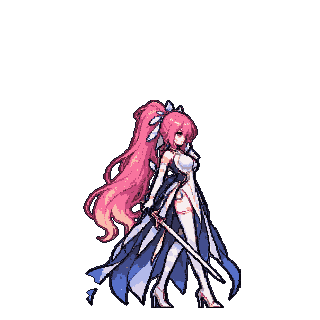
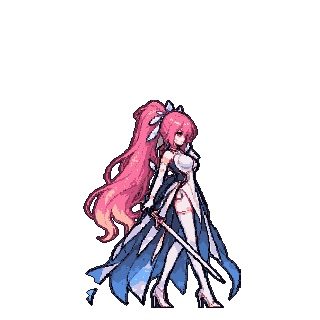
art: 에이메스 도트 자락을 원작대로 남색→하늘색 그라데이션(POLISH.aem)

diff --git a/docs/lore/CHARACTER_BIBLE.md b/docs/lore/CHARACTER_BIBLE.md
@@ -23,7 +23,7 @@
 | 방랑자(여) | 목까지 오는 검은 단발, 귀 옆 은회색 가닥, 금속 머리핀. 뒤의 긴 검은 선은 장식끈 | 도트는 긴 포니테일 | 공식 원화(`rover-f-official.png`) |
 | 카멜리아 | 흰 머리에 검은 줄무늬, 트윈테일, 짙은 회색 눈에 붉은 마름모 동공, 머리에 검붉은 꽃 | 일치(2026-11-12 재생성) | 팬 위키 요약(공식 아님). 의상 세부 미확인 |
 | 치사 | 긴 검은 생머리, 한쪽 빨간 리본, 검은 짧은 재킷, 세일러 상의와 빨간 스카프, 가위형 대검 | 도트는 머리가 갈색이고 리본이 안 보임 | 공식 원화(`chi-official.webp`) |
-| 에이메스 | 무릎까지 오는 장밋빛 분홍 하이포니테일(끝은 복숭아빛), 금빛 눈, 금 테두리 흰 민소매 레오타드, 허리 금속 장치, 남색→하늘색 별빛 그라데이션 자락, 팔꿈치부터 흰 장갑, 금 밴드 흰 사이하이, 흰 힐 | 일치(2026-11-12 재생성) | 공식 원화(`aem-official.webp`) |
+| 에이메스 | 무릎까지 오는 장밋빛 분홍 하이포니테일(끝은 복숭아빛), 금빛 눈, 금 테두리 흰 민소매 레오타드, 허리 금속 장치, 남색→하늘색 별빛 그라데이션 자락, 팔꿈치부터 흰 장갑, 금 밴드 흰 사이하이, 흰 힐 | 자락이 전부 진한 남색이던 것을 하늘색 그라데이션으로 보정(2026-11-24, 처리 단계 `POLISH.aem`). 금 테두리는 도트에 거의 안 보임 | 공식 원화(`aem-official.webp`) |
 | 에이메스 메카 | 은빛 흰 장갑, 둥근 투구와 청록 바이저, 뒤로 뻗은 금색 볏, 연금색 케이블, 검은 관절과 금 장식, 가슴 청록 코어, 떠 있는 흰 칼날 날개 | 일치(2026-11-12 재생성) | 공식 원화(`aem-official.webp` 왼쪽 위) |
 | 파수인 | 어깨 길이 하늘색 머리(끝 진한 파랑), 분홍보라 눈, 흰 반투명 후드와 남색·노랑 나비 장식, 남색 별빛 베일, 프릴 깃 흰 짧은 드레스, 은 끈·팔찌, 맨다리 | 일치(2026-11-12 재생성) | 공식 원화(`sk-official.png`) |
 | 히유키 | 흰 하이포니테일과 빨간 리본, 홍백 무녀복과 벚꽃 문양, 검 | 일치 | 3차 가이드 요약(공식 아님) |

diff --git a/docs/STATUS.md b/docs/STATUS.md
@@ -56,3 +56,4 @@ PixelLab 프롬프트를 웹 화면 스크린샷에 맞춰 수정: Create from T
 2026-11-23: GPT 그림 자글자글·뭉개짐 대응으로 `CLEAN LOCK` 공통 문장을 만들어 GPT 프롬프트 전부(카드 91장, 모션, 공명자, 수정, 전투 배경, 타이틀)에 넣었다. 카드 기본 문장에서 "glow·motion trails·noise"처럼 잡티를 부르는 말을 뺐다. 공용 카드 3장(`any_scan`·`any_focus`·`any_overload`) 업로드 그림은 후보에 넣었다. 도구별 차이는 [ART_PIPELINE.md](art/ART_PIPELINE.md).
 2026-11-23: 타이틀 배경으로 사용자가 고른 플로우 그림을 넣었다(`art/source-v2/title_bg.png` → `assets/maps/title-bg.png` 640×360, `prepare-battle-bg.cjs`가 함께 처리). 오른쪽 아래에 작은 플로우 워터마크가 남아 있다. 타이틀 프롬프트는 플로우용 짧은 문장으로 줄였고, 제목에 '플로우'가 있는 항목에는 GPT용 CLEAN LOCK을 넣지 않는다. 게임 화면 연결(`titleHTML`)은 아직 안 함(`dev`).
 2026-11-24: 파수인 도트 다듬기. `prepare-heroes-v3.cjs`에 캐릭터별 다듬기(`POLISH`)를 넣어 파수인만 윤곽의 흰 점을 남색 윤곽으로, 망토의 한 점 잡티를 이웃 색으로 바꿨다(머리 위 28%는 건드리지 않음). 원본 시트 자체가 잡티가 많아 완전히 깨끗하지는 않다. 근본 해결은 CLEAN LOCK이 들어간 16칸 프롬프트(`hero_sk_full`)로 다시 생성하는 것.
+2026-11-24: 에이메스 도트 색을 원작에 맞춤 — 치마 자락을 남색→하늘색 그라데이션으로(`prepare-heroes-v3.cjs`의 `POLISH.aem`). 카멜리아·카르티시아는 의상 색이 미확인이라 공식 이미지를 받은 뒤 고친다.
